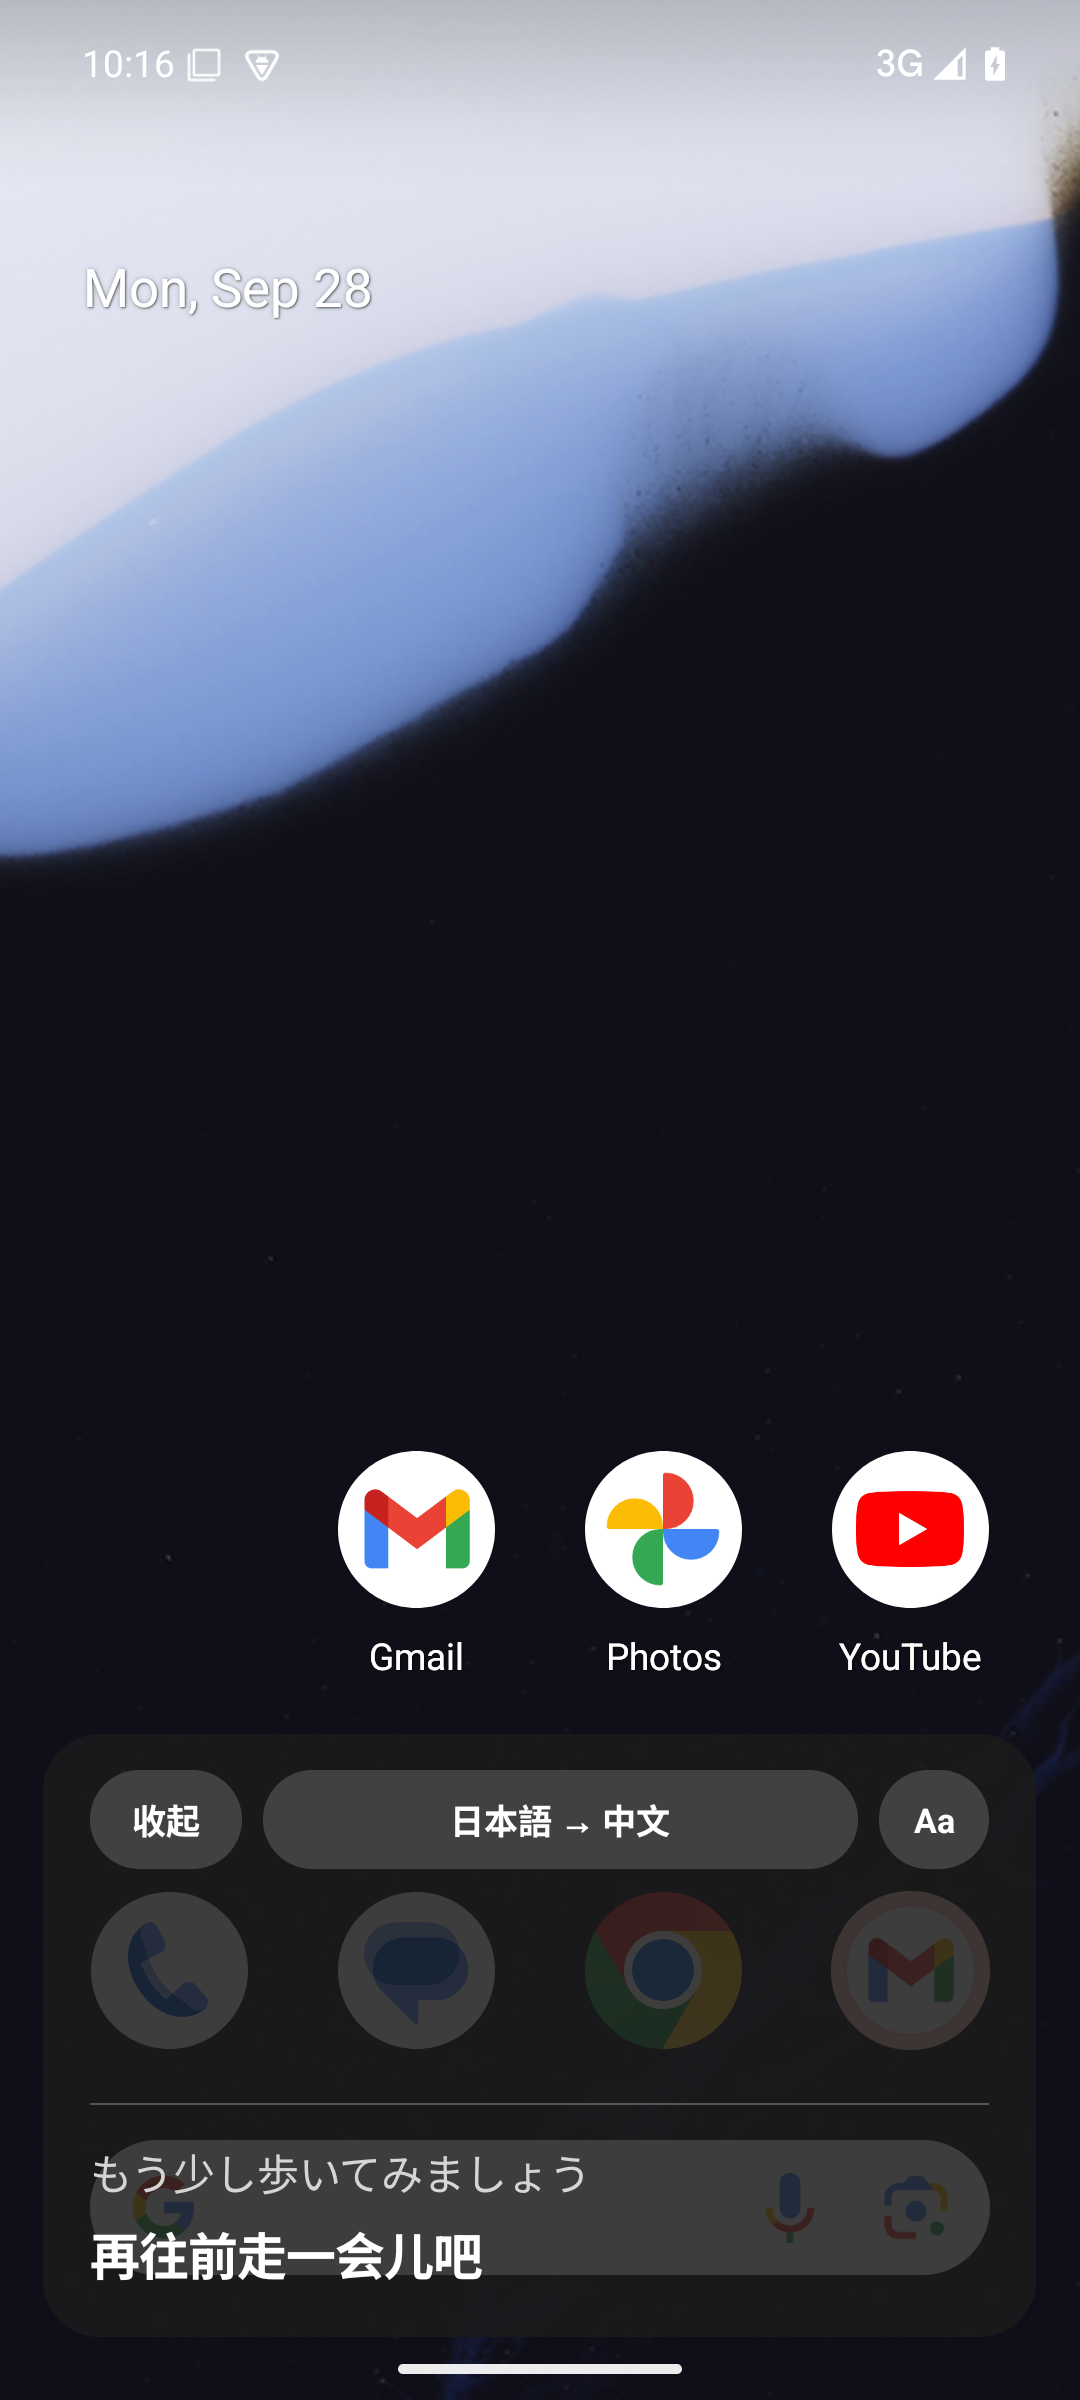
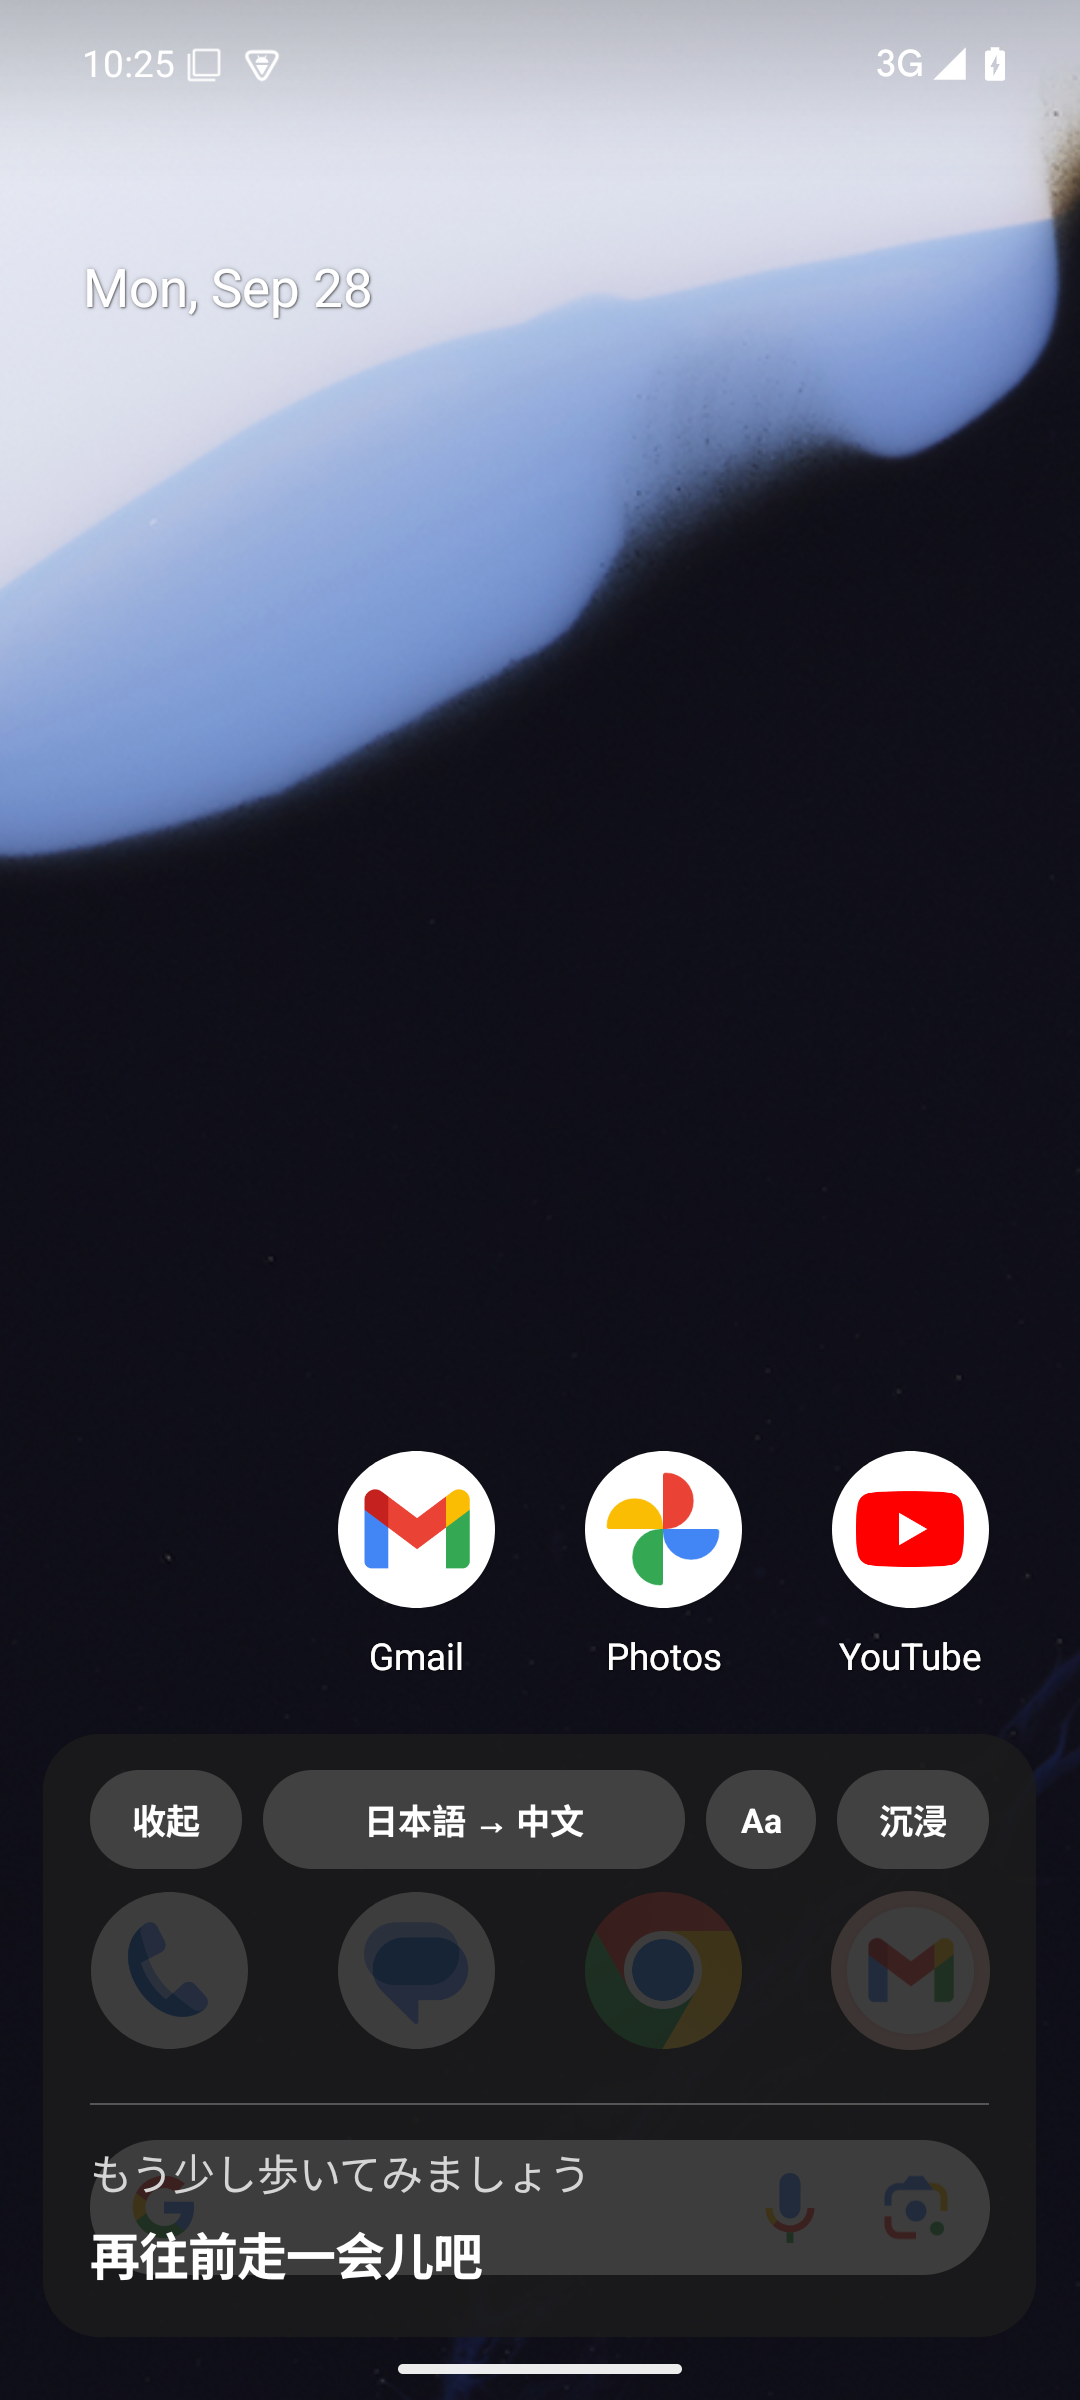
feat(android): toggle immersive subtitles from the floating overlay

Changed region(s): [[0.3361, 0.7188, 0.8861, 0.7812]]

diff --git a/android/app/src/main/java/app/yuxino/mimi/android/capture/MimiService.kt b/android/app/src/main/java/app/yuxino/mimi/android/capture/MimiService.kt
@@ -67,6 +67,7 @@ class MimiService : Service() {
     private var windowManager: WindowManager? = null
     private var overlayView: View? = null
     private var overlayParams: WindowManager.LayoutParams? = null
+    private var immersiveExitView: View? = null
     private var compactView: View? = null
     private var expandedView: View? = null
     private var expanded = false
@@ -125,6 +126,12 @@ class MimiService : Service() {
     override fun onStartCommand(intent: Intent?, flags: Int, startId: Int): Int {
         if (intent?.action == ACTION_STOP) {
             stopEverything()
+            return START_NOT_STICKY
+        }
+        if (intent?.action == ACTION_APPLY_APPEARANCE) {
+            if (overlayView != null && immersiveSession != SettingsStore.immersiveSubtitles(this)) {
+                rebuildOverlay()
+            } else if (overlayView == null && !isRunning) stopSelf()
             return START_NOT_STICKY
         }
         if (intent?.action == ACTION_UI_PREVIEW_HISTORY && previewMode &&
@@ -484,7 +491,39 @@ class MimiService : Service() {
         statusView = status
         sourceView = source
         translationView = translation
+        if (immersiveSession) showImmersiveExitControl(wm)
         renderBus()
+    }
+
+    private fun showImmersiveExitControl(wm: WindowManager) {
+        val exit = panelButton(getString(R.string.overlay_exit_immersive)).apply {
+            tag = "exit-immersive"
+            contentDescription = getString(R.string.overlay_exit_immersive)
+            alpha = 0.72f
+            setOnClickListener { setImmersiveMode(false) }
+        }
+        val params = WindowManager.LayoutParams(
+            dp(88), dp(40), WindowManager.LayoutParams.TYPE_APPLICATION_OVERLAY,
+            WindowManager.LayoutParams.FLAG_NOT_FOCUSABLE or WindowManager.LayoutParams.FLAG_NOT_TOUCH_MODAL,
+            PixelFormat.TRANSLUCENT,
+        ).apply {
+            gravity = Gravity.TOP or Gravity.END
+            x = dp(12)
+            y = dp(16)
+        }
+        wm.addView(exit, params)
+        immersiveExitView = exit
+    }
+
+    private fun setImmersiveMode(enabled: Boolean) {
+        if (immersiveSession == enabled) return
+        SettingsStore.setImmersiveSubtitles(this, enabled)
+        rebuildOverlay()
+    }
+
+    private fun rebuildOverlay() {
+        hideOverlay()
+        showOverlay()
     }
 
     private fun buildExpandedPanel(): View {
@@ -511,6 +550,11 @@ class MimiService : Service() {
                 updateOverlayFontSize()
             }
         }
+        val immersive = panelButton(getString(R.string.overlay_enter_immersive)).apply {
+            tag = "enter-immersive"
+            contentDescription = getString(R.string.overlay_enter_immersive)
+            setOnClickListener { setImmersiveMode(true) }
+        }
         val route = panelButton(
             "${languageName(sessionSourceLanguage)} → ${languageName(SettingsStore.targetLang(this))}",
         ).apply {
@@ -525,6 +569,7 @@ class MimiService : Service() {
         header.addView(collapse, LinearLayout.LayoutParams(dp(58), dp(38)))
         header.addView(route, LinearLayout.LayoutParams(0, dp(38), 1f).apply { marginStart = dp(8) })
         header.addView(font, LinearLayout.LayoutParams(dp(42), dp(38)).apply { marginStart = dp(8) })
+        header.addView(immersive, LinearLayout.LayoutParams(dp(58), dp(38)).apply { marginStart = dp(8) })
         panel.addView(header)
 
         expandedStatusView = TextView(this).apply {
@@ -652,6 +697,11 @@ class MimiService : Service() {
 
     private fun hideOverlay() {
         try {
+            immersiveExitView?.let { windowManager?.removeView(it) }
+        } catch (_: Exception) {
+        }
+        immersiveExitView = null
+        try {
             overlayView?.let { windowManager?.removeView(it) }
         } catch (_: Exception) {
         }
@@ -753,6 +803,7 @@ class MimiService : Service() {
         }
 
         const val ACTION_STOP = "app.yuxino.mimi.android.action.STOP"
+        const val ACTION_APPLY_APPEARANCE = "app.yuxino.mimi.android.action.APPLY_APPEARANCE"
         const val ACTION_UI_PREVIEW = "app.yuxino.mimi.android.action.UI_PREVIEW"
         const val ACTION_UI_PREVIEW_HISTORY = "app.yuxino.mimi.android.action.UI_PREVIEW_HISTORY"
         const val EXTRA_RESULT_CODE = "result_code"

diff --git a/android/app/src/androidTest/java/app/yuxino/mimi/android/UiSmokeInstrumentation.kt b/android/app/src/androidTest/java/app/yuxino/mimi/android/UiSmokeInstrumentation.kt
@@ -187,6 +187,7 @@ class UiSmokeInstrumentation : Instrumentation() {
         SettingsStore.setTranslationColorIndex(targetContext, 1)
         SettingsStore.setOverlayBgAlpha(targetContext, 65)
         SettingsStore.setOverlayOpacity(targetContext, 100)
+        SettingsStore.setImmersiveSubtitles(targetContext, false)
         launchHome()
         try {
             check(targetContext.startService(Intent(targetContext, MimiService::class.java)
@@ -220,10 +221,53 @@ class UiSmokeInstrumentation : Instrumentation() {
             capture("overlay-after-expanded-history-$theme")
             onUi { check(expanded.findViewWithTag<View>("collapse-overlay").performClick()) }
             check(compact.isShown && !expanded.isShown) { "Floating overlay did not collapse" }
+            onUi { check(compact.performClick()) }
+            onUi { check(expanded.findViewWithTag<View>("enter-immersive").performClick()) }
+            check(SettingsStore.immersiveSubtitles(targetContext))
+            val exit = WindowInspector.getGlobalWindowViews()
+                .firstOrNull { it.tag == "exit-immersive" }
+            check(exit?.isShown == true) { "Immersive mode has no in-overlay exit" }
+            capture("overlay-after-immersive-$theme")
+            onUi { check(exit.performClick()) { "Exit control click failed" } }
+            waitForIdleSync()
+            check(!SettingsStore.immersiveSubtitles(targetContext)) { "Exit did not clear immersive preference" }
+            val restored = WindowInspector.getGlobalWindowViews()
+                .firstOrNull { it.tag == "mimi-overlay" }
+            check(restored?.findViewWithTag<View>("compact-subtitle")?.isShown == true) {
+                "Exit did not restore the compact overlay"
+            }
+            check(WindowInspector.getGlobalWindowViews().none { it.tag == "exit-immersive" }) {
+                "Exit control remained after leaving immersive mode"
+            }
+            SettingsStore.setImmersiveSubtitles(targetContext, true)
+            targetContext.startService(Intent(targetContext, MimiService::class.java)
+                .setAction(MimiService.ACTION_APPLY_APPEARANCE))
+            val settingsExit = waitForOverlayTag("exit-immersive")
+            check(settingsExit?.isShown == true) { "Settings change did not apply to the active overlay" }
+            onUi { SubtitleBus.hideLive() }
+            check(settingsExit.isShown) { "Immersive exit disappeared when speech paused" }
+            SettingsStore.setImmersiveSubtitles(targetContext, false)
+            targetContext.startService(Intent(targetContext, MimiService::class.java)
+                .setAction(MimiService.ACTION_APPLY_APPEARANCE))
+            for (attempt in 0 until 30) {
+                waitForIdleSync()
+                if (WindowInspector.getGlobalWindowViews().none { it.tag == "exit-immersive" }) break
+                SystemClock.sleep(100)
+            }
+            check(WindowInspector.getGlobalWindowViews().none { it.tag == "exit-immersive" })
         } finally {
             targetContext.startService(MimiService.stopIntent(targetContext))
             waitForIdleSync()
         }
+    }
+
+    private fun waitForOverlayTag(tag: String): View? {
+        repeat(30) {
+            waitForIdleSync()
+            WindowInspector.getGlobalWindowViews().firstOrNull { it.tag == tag }?.let { return it }
+            SystemClock.sleep(100)
+        }
+        return null
     }
 
     private fun demonstrate() {

diff --git a/android/app/src/main/java/app/yuxino/mimi/android/SettingsActivity.kt b/android/app/src/main/java/app/yuxino/mimi/android/SettingsActivity.kt
@@ -1,5 +1,6 @@
 package app.yuxino.mimi.android
 
+import android.content.Intent
 import android.os.Bundle
 import android.view.View
 import android.widget.AdapterView
@@ -13,6 +14,7 @@ import android.widget.Toast
 import androidx.appcompat.app.AppCompatActivity
 import com.google.android.material.button.MaterialButton
 import com.google.android.material.materialswitch.MaterialSwitch
+import app.yuxino.mimi.android.capture.MimiService
 
 class SettingsActivity : AppCompatActivity() {
 
@@ -67,6 +69,10 @@ class SettingsActivity : AppCompatActivity() {
         immersiveSwitch.isChecked = SettingsStore.immersiveSubtitles(this)
         immersiveSwitch.setOnCheckedChangeListener { _, enabled ->
             SettingsStore.setImmersiveSubtitles(this, enabled)
+            if (MimiService.isRunning) {
+                startService(Intent(this, MimiService::class.java)
+                    .setAction(MimiService.ACTION_APPLY_APPEARANCE))
+            }
             refreshPreview()
         }
 

diff --git a/docs/plans/2026-09-28-android-compact-immersive-subtitles.md b/docs/plans/2026-09-28-android-compact-immersive-subtitles.md
@@ -4,7 +4,8 @@ The Android port keeps Mimi's desktop visual language: grayscale surfaces, the
 existing character artwork, one primary session action, and a live subtitle
 overlay. The supplied mobile reference is a floating reading window over other
 content. Mimi starts with a compact subtitle; tapping it opens a translucent
-reading panel with a language route, type-size control, and collapse action.
+reading panel with a language route, type-size control, collapse action, and
+one-tap immersive entry.
 The panel stays short when history is off. If history is enabled in settings,
 it grows into a scrollable window for bounded confirmed subtitle pairs. There
 is no extra recording or preview control in the floating panel.
@@ -16,19 +17,22 @@ adjustable, and users can drag it vertically. New installations use a readable
 65% dark background; an existing saved value still wins. History remains off by
 default and never appears until explicitly enabled in settings.
 
-An appearance switch enables immersive mode for the next session. The overlay
-then has no background, hides history, uses a text shadow for contrast, and is
-not touchable. Android 12 and newer reject touches passing through a fully
-opaque untrusted overlay, so the immersive window's opacity is capped at 0.8.
-Because the text cannot receive gestures, the app and foreground notification
-remain the controls for stopping or changing the mode. The ordinary card stays
-touchable for dragging.
+The panel or appearance switch enables immersive mode immediately without
+restarting audio capture. The subtitle window then has no background, hides
+history, uses a text shadow for contrast, and passes touches through. A separate
+small, touchable exit control sits at the upper right; it remains available even
+when subtitles temporarily hide. Tapping it returns to the ordinary compact
+card. Android 12 and newer reject touches passing through a fully opaque
+untrusted overlay, so the immersive text window's opacity is capped at 0.8.
+The app and foreground notification remain backup controls. The ordinary card
+stays touchable for dragging.
 
 Mode and appearance settings save separately from provider credentials. A
 debug-only instrumentation fixture renders the actual floating window over the
 emulator home screen without a service account, capture permission, or network
 session. Its synthetic subtitles are only for visual checks, not evidence of
-live translation. Verify compact, expanded, collapsed, and history states on
+live translation. Verify compact, expanded, collapsed, history, immersive entry,
+and immersive exit states on
 an API 35 emulator; build, lint, and unit tests cover the Android package.
 Emulator UI checks do not establish physical-device touch-through behavior or
 provider translation.

diff --git a/android/README.md b/android/README.md
@@ -31,12 +31,12 @@ translation for system audio. Pure Kotlin (no Tauri), single module.
   (position persists). Tap it to open a translucent reading panel with the
   current source and translation; confirmed lines appear there only when
   bounded history is enabled in settings. The panel has a language shortcut,
-  font-size control, and collapse action. Its compact card has adjustable background alpha
+  font-size control, collapse action, and immersive toggle. Its compact card has adjustable background alpha
   (0–90 %), text color presets, font size, and whole-window opacity. An optional
   immersive mode shows plain text with a contrast shadow and passes touches
-  through to the app below; change it in Subtitle appearance before starting
-  the next session. Use Mimi or its foreground notification to stop an
-  immersive session.
+  through to the app below. A small control at the upper right exits immersive
+  mode without stopping the session; the app and foreground notification remain
+  backup controls.
 - **Native-subtitle behaviour** — only the current sentence is shown (drafts
   are clipped to the last sentence of the provider's cumulative buffer);
   English source speech shows source + translation lines, other languages show
@@ -121,6 +121,7 @@ adb install -r app/build/outputs/apk/debug/app-debug.apk
 adb install -r app/build/outputs/apk/androidTest/debug/app-debug-androidTest.apk
 adb shell am instrument -w -e theme light app.yuxino.mimi.android.test/app.yuxino.mimi.android.UiSmokeInstrumentation
 adb shell am instrument -w -e theme dark app.yuxino.mimi.android.test/app.yuxino.mimi.android.UiSmokeInstrumentation
+adb shell am instrument -w -e overlay_preview true -e theme light app.yuxino.mimi.android.test/app.yuxino.mimi.android.UiSmokeInstrumentation
 ```
 
 The checks exercise quick language selection/Undo, direct appearance access,
